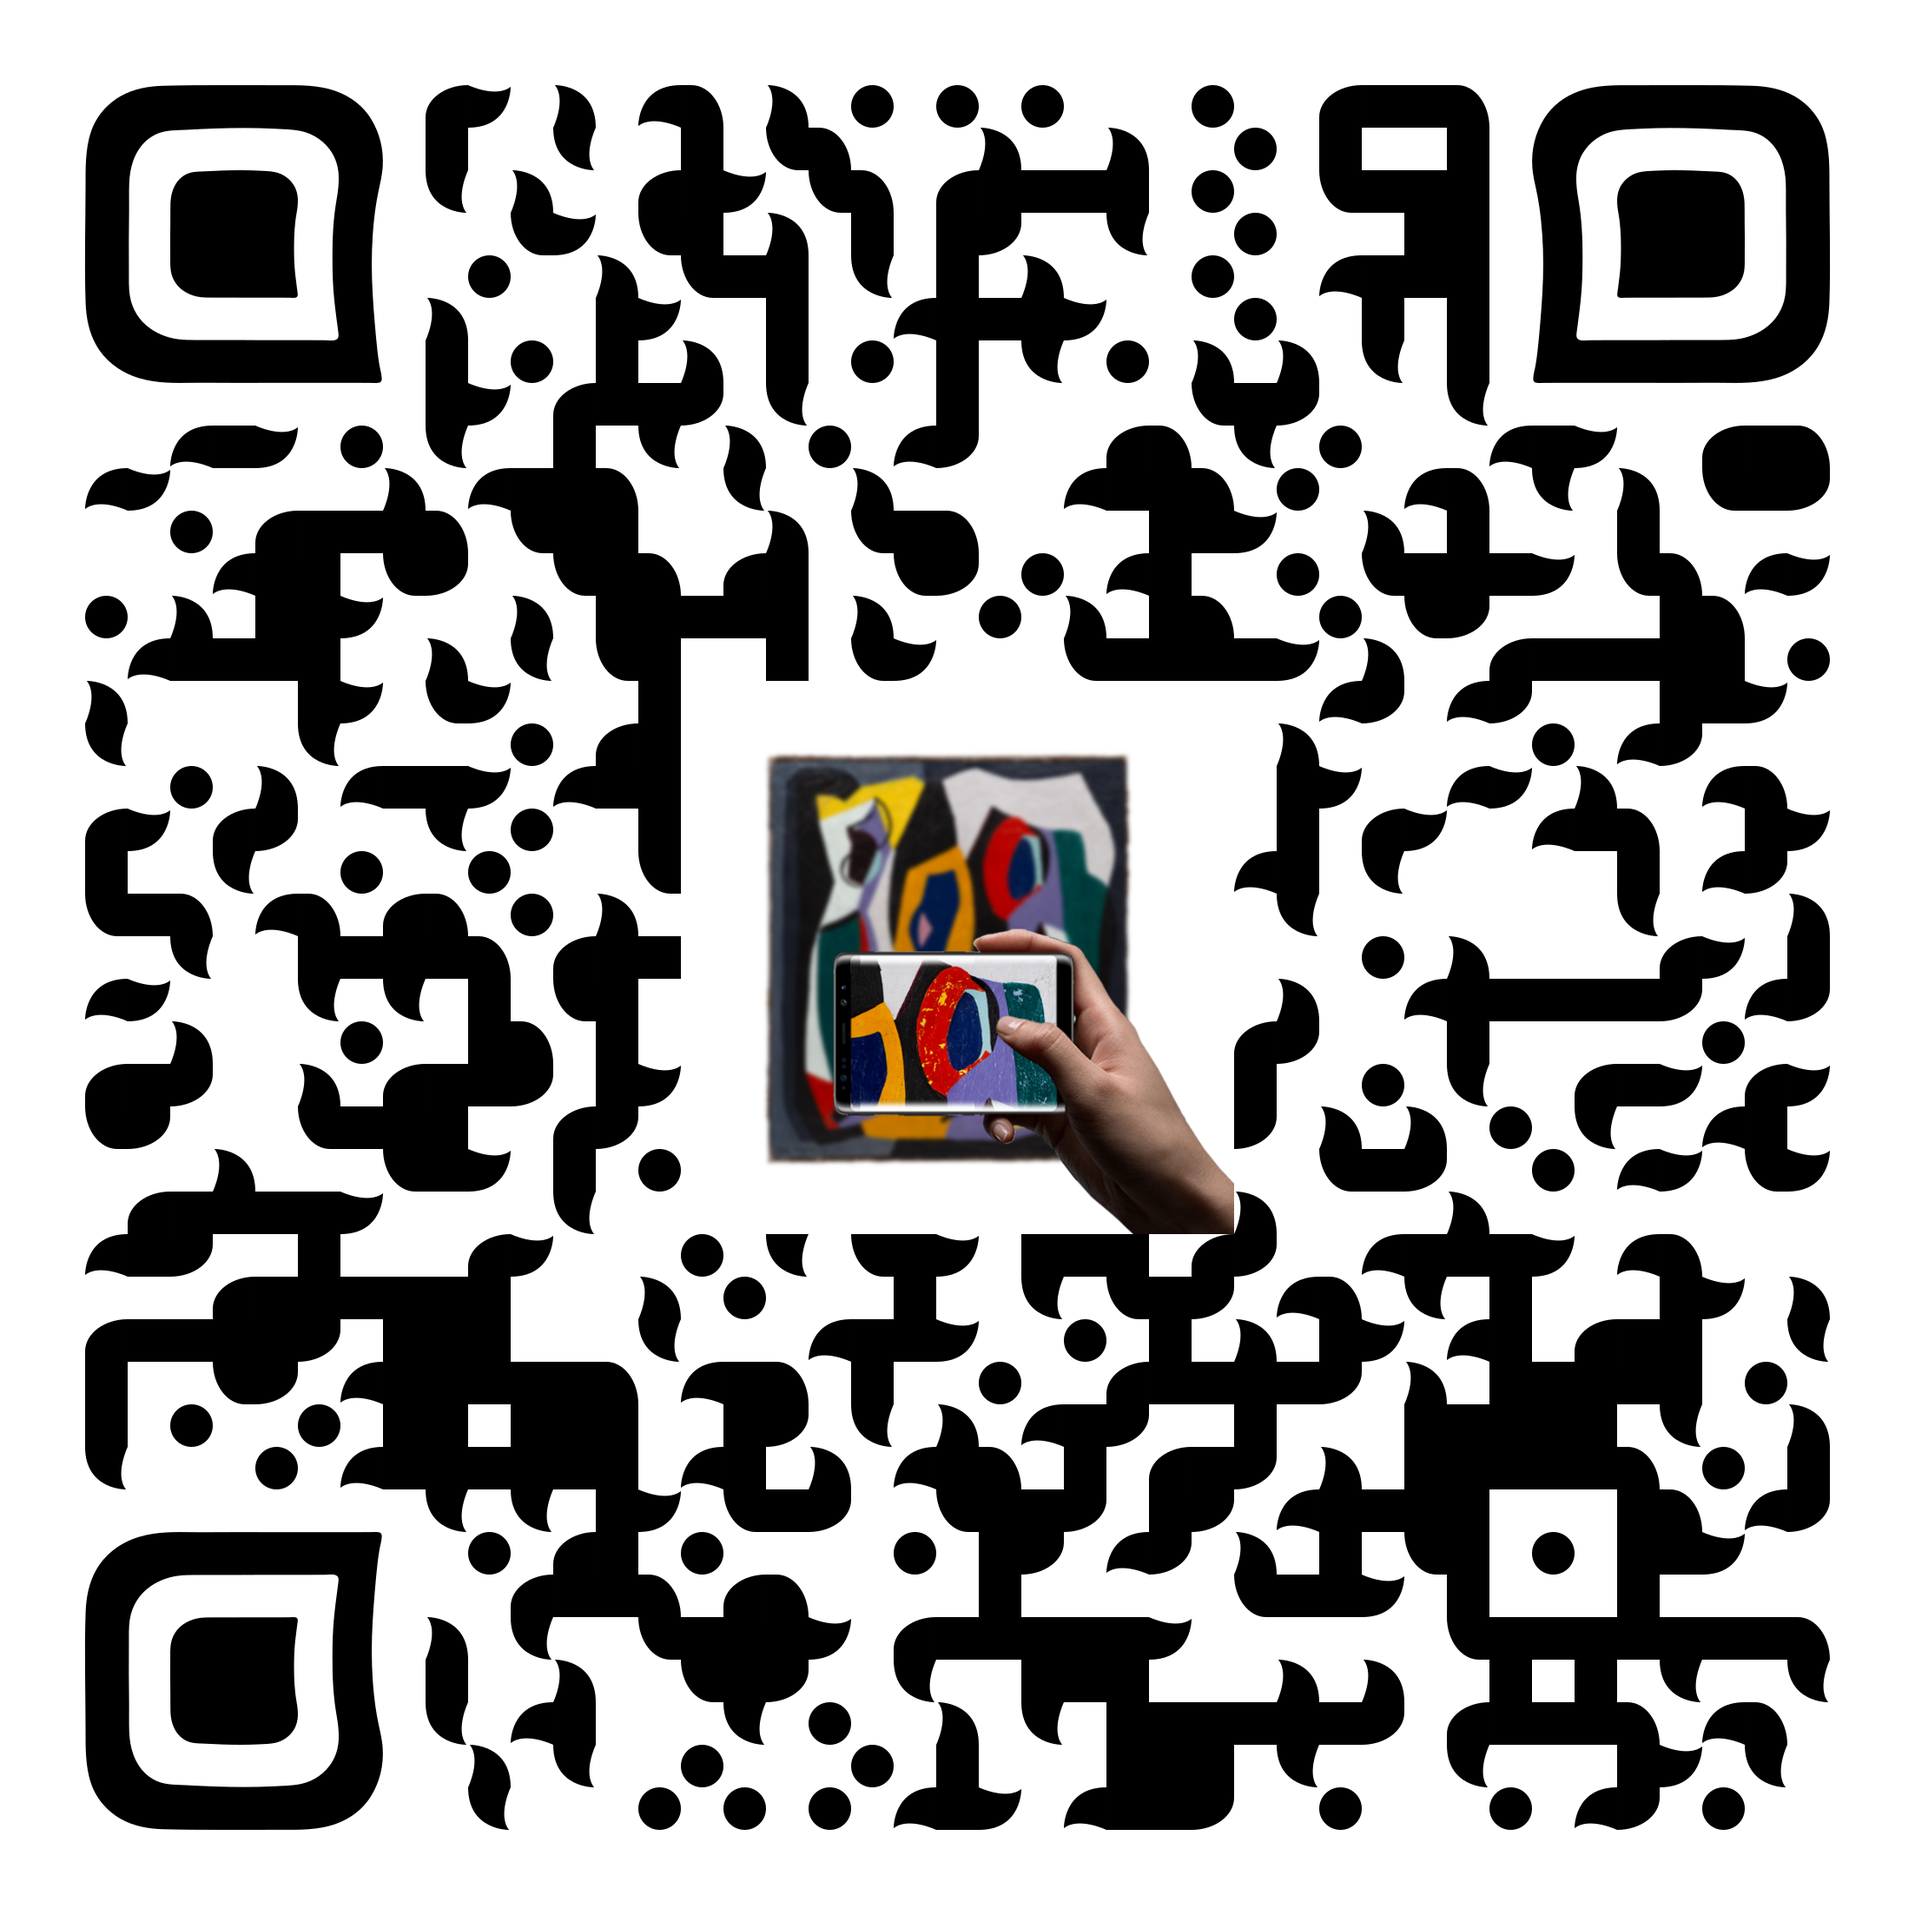
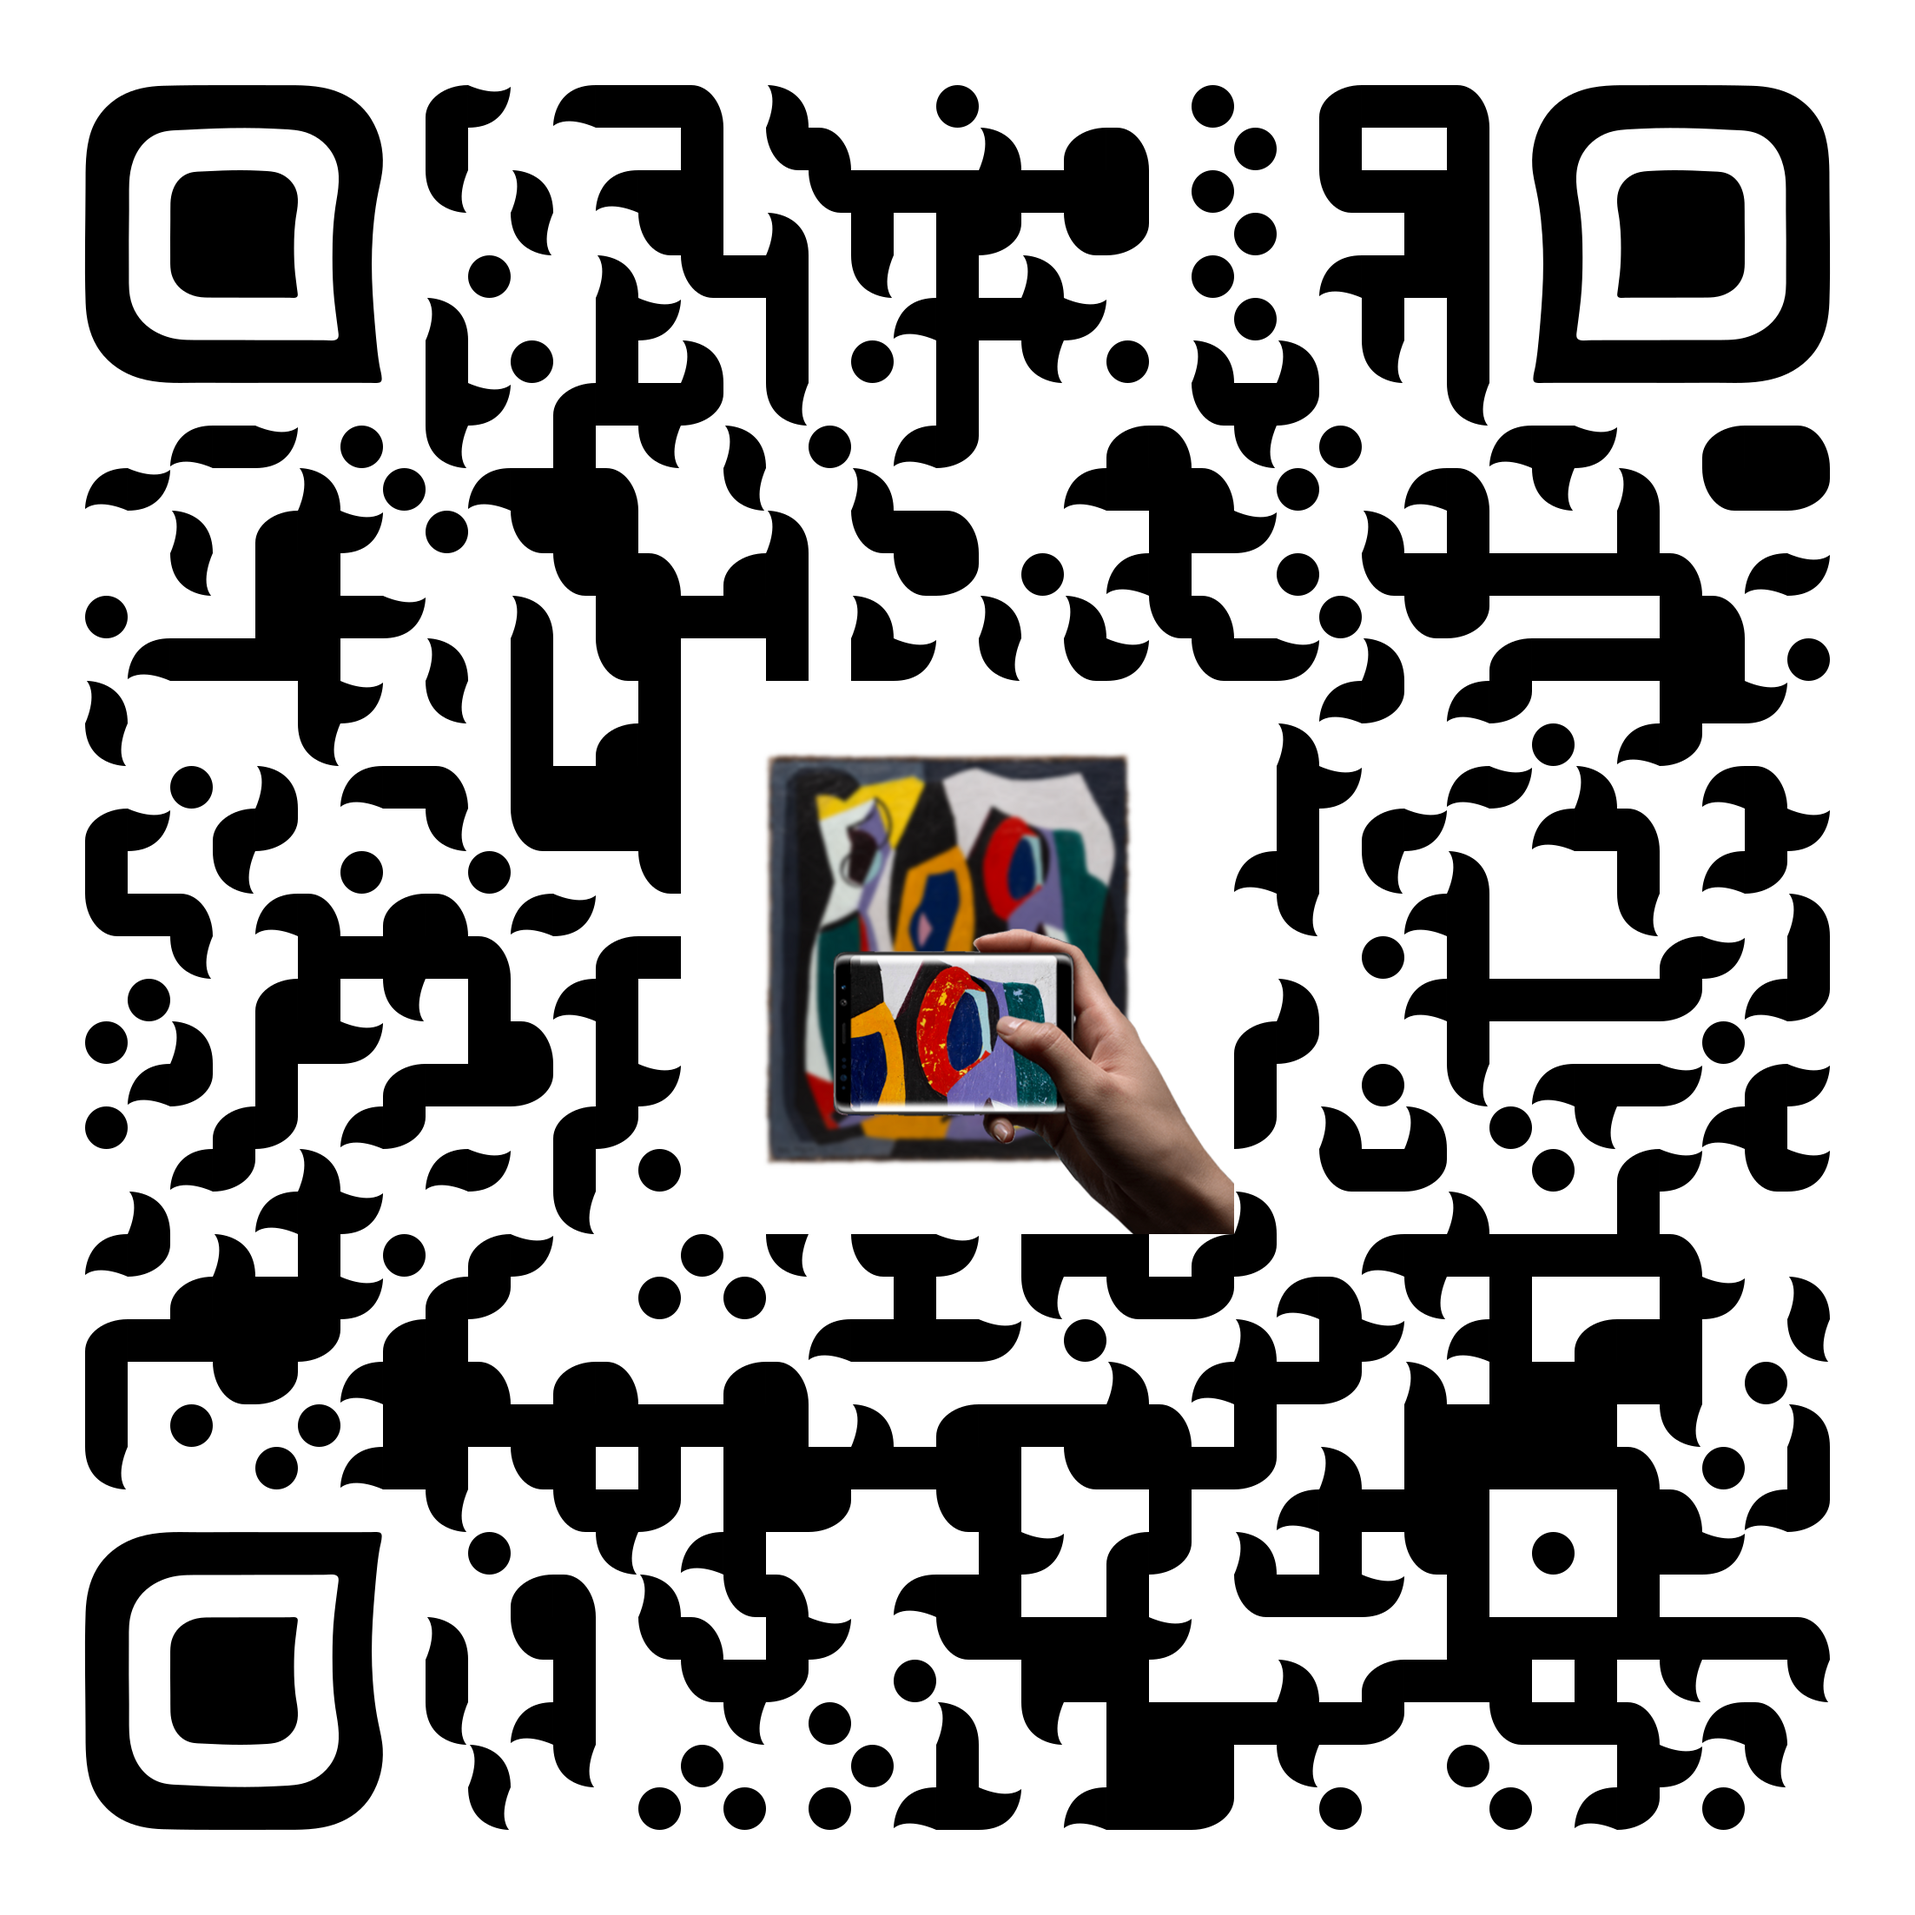
Add files via upload

diff --git a/pages/galeria.html b/pages/galeria.html
@@ -48,7 +48,7 @@
                 <!--AGREGAR IMAGEN DEL CÓDIGO QR-->
                 <section class="principalRA">
                     <div>
-                        <a href="https://itch.io/embed-upload/12720580?color=ffffff" target="_blank" class="boxRA">
+                        <a href="https://itch.io/embed-upload/12744737?color=ffffff" target="_blank" class="boxRA">
                             <h4>Restauración</h4>
                                 <div>
                                     <h4>Aumentada</h4>
